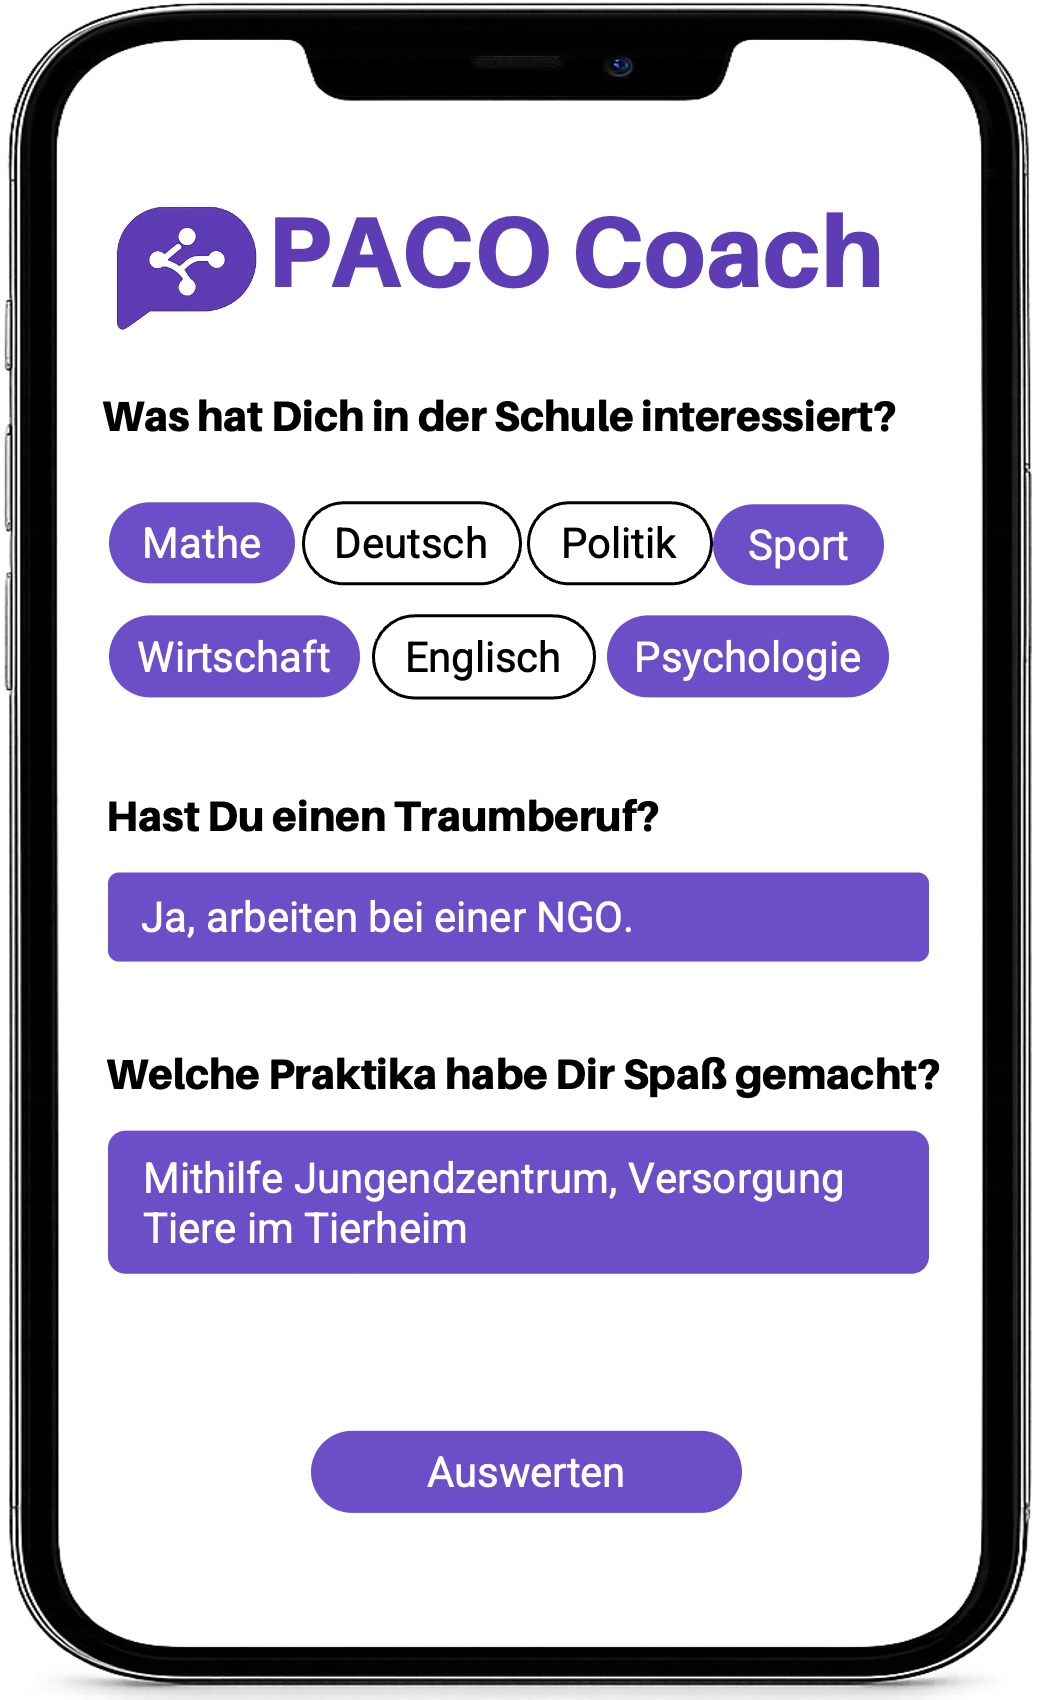
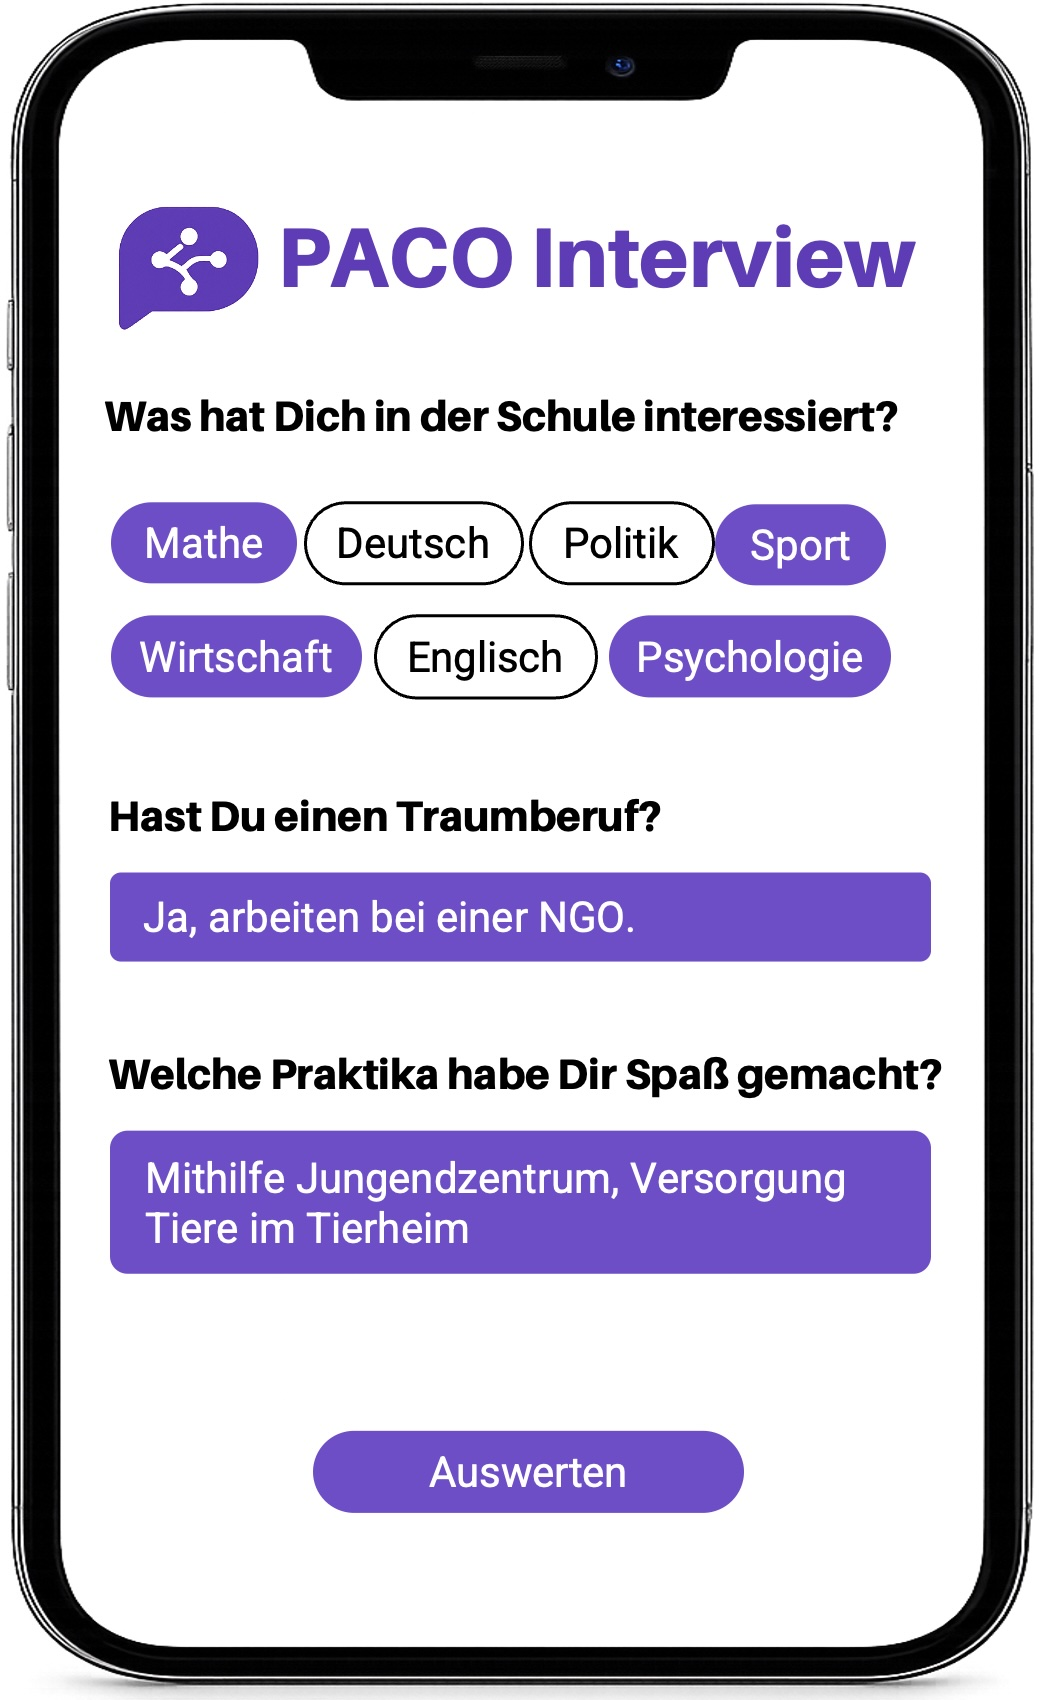
250901 mit PACO Interview

diff --git a/paco-coach.html b/paco-coach.html
@@ -3,8 +3,8 @@
 <head>
   <meta charset="UTF-8" />
   <meta name="viewport" content="width=device-width, initial-scale=1.0" />
-  <title>PACO Coach – Studienwahl mit KI, die zu Ihrer Hochschule passt</title>
-  <meta name="description" content="PACO Coach führt Studieninteressierte durch ein kurzes KI‑Interview, zeigt die Passung zu Studiengängen und ermöglicht Vergleiche – DSGVO‑konform, schnell implementiert."/>
+  <title>PACO Interview – Studienwahl mit KI, die zu Ihrer Hochschule passt</title>
+  <meta name="description" content="PACO Interview führt Studieninteressierte durch ein kurzes KI‑Interview, zeigt die Passung zu Studiengängen und ermöglicht Vergleiche – DSGVO‑konform, schnell implementiert."/>
   <script src="https://cdn.tailwindcss.com"></script>
   
   <!-- NEU HINZUFÜGEN -->
@@ -36,12 +36,12 @@
 
   <!-- HERO -->
   <section id="hero" class="relative w-full h-[50vh] min-h-[500px] max-h-[700px]">
-    <img src="assets/paco-coach-hero.jpg" alt="Studieninteressierte nutzen PACO Coach auf einer Hochschulseite" class="absolute inset-0 w-full h-full object-cover object-top" />
+    <img src="assets/paco-coach-hero.jpg" alt="Studieninteressierte nutzen PACO Interview auf einer Hochschulseite" class="absolute inset-0 w-full h-full object-cover object-top" />
     <div class="absolute inset-0 bg-gradient-to-r from-black/60 to-black/40 flex flex-col justify-center px-6 md:px-20 pt-20 pb-8">
       <div class="max-w-[60%]">
         <!-- Headline gemäß Typo-Guide -->
         <h1 class="text-white text-3xl md:text-5xl font-bold leading-tight">
-          PACO Coach findet passende Studiengänge 
+          PACO Interview findet passende Studiengänge 
         </h1>
         <p class="text-purple-100 text-base md:text-lg mt-4">
           Für Studieninteressierte. Kurzinterview, Matching, Vergleich, perfektes Programm finden. 
@@ -49,7 +49,7 @@
         <div class="mt-6 flex flex-col sm:flex-row gap-3 w-fit">
           <button onclick="go_to_interview('de')" 
                   class="bg-white text-[#7C3AED] hover:bg-[#6A2ECD] hover:text-white font-medium py-3 px-6 rounded-lg shadow text-base cursor-pointer transition-colors duration-200">
-            PACO Coach testen
+             Interview testen
           </button>
           <a href="#contact-form-container"
              class="bg-transparent border-2 border-white text-white hover:bg-[#6A2ECD] hover:border-[#6A2ECD] hover:text-white font-medium py-3 px-6 rounded-lg transition-colors duration-200 text-base inline-block">
@@ -67,7 +67,7 @@
         Bessere Studienorientierung – weniger Anfragen bei Beratungsstellen
       </h2>
       <p class="text-lg text-[#6B7280] text-center mb-12 max-w-3xl mx-auto">
-        PACO Coach stellt gezielte Fragen, bewertet Interessen und Stärken und zeigt die Passung zu Studiengängen Ihrer Hochschule. Ergebnisse sind nachvollziehbar und können direkt verglichen werden.
+        PACO Interview stellt gezielte Fragen, bewertet Interessen und Stärken und zeigt die Passung zu Studiengängen Ihrer Hochschule. Ergebnisse sind nachvollziehbar und können direkt verglichen werden.
       </p>
 
       <ul class="grid grid-cols-1 md:grid-cols-2 lg:grid-cols-4 gap-8">
@@ -107,26 +107,42 @@
   <section id="beispiele" class="bg-[#F9F6FF] py-16 px-6 md:px-20">
     <div class="max-w-6xl mx-auto">
       <h2 class="text-3xl md:text-5xl font-bold text-[#7C3AED] text-center leading-relaxed md:leading-[1.3] mb-6 md:mb-8">
-        So arbeitet PACO Coach 
+        So arbeitet PACO Interview 
       </h2>
       <p class="text-lg text-[#6B7280] text-center mb-12 max-w-2xl mx-auto">Strukturierte Beratung in drei Schritten – mit nachvollziehbaren Ergebnissen.</p>
 
       <div class="grid md:grid-cols-3 gap-8">
         <!-- Schritt 1 -->
         <div class="bg-white border border-[#E9D5FF] rounded-xl p-6">
-         <h3 class="font-semibold text-[#7C3AED] text-xl mb-3">1 · Interview</h3>
-          <img src="assets/paco-coach-screen_1.jpg" alt="Screenshot des Kurzinterviews mit PACO Coach" class="my-4 rounded-lg shadow-md w-full h-auto" loading="lazy" />
+          <div class="flex items-center gap-3 mb-3">
+            <div class="w-8 h-8 bg-[#7C3AED] text-white rounded-full flex items-center justify-center text-sm font-bold">
+              1
+            </div>
+            <h3 class="font-semibold text-[#7C3AED] text-2xl">Analyse</h3>
+          </div>
+          <img src="assets/paco-coach-screen_1.jpg" alt="Screenshot des Kurzinterviews mit PACO Interview" class="my-4 rounded-lg shadow-md w-full h-auto" loading="lazy" />
         </div>
+        
         <!-- Schritt 2 -->
         <div class="bg-white border border-[#E9D5FF] rounded-xl p-6">
-            <h3 class="font-semibold text-[#7C3AED] text-xl mb-3">2 · Empfehlung</h3>
-          <img src="assets/paco-coach-screen_2.jpg" alt="Screenshot des Kurzinterviews mit PACO Coach" class="my-4 rounded-lg shadow-md w-full h-auto" loading="lazy" />
+          <div class="flex items-center gap-3 mb-3">
+            <div class="w-8 h-8 bg-[#7C3AED] text-white rounded-full flex items-center justify-center text-sm font-bold">
+              2
+            </div>
+            <h3 class="font-semibold text-[#7C3AED] text-2xl">Empfehlung</h3>
+          </div>
+          <img src="assets/paco-coach-screen_2.jpg" alt="Screenshot des Kurzinterviews mit PACO Interview" class="my-4 rounded-lg shadow-md w-full h-auto" loading="lazy" />
         </div>
+        
         <!-- Schritt 3 -->
         <div class="bg-white border border-[#E9D5FF] rounded-xl p-6">
-            <h3 class="font-semibold text-[#7C3AED] text-xl mb-3">3 · Vergleich</h3>
-          <img src="assets/paco-coach-screen_3.jpg" alt="Screenshot des Kurzinterviews mit PACO Coach" class="my-4 rounded-lg shadow-md w-full h-auto" loading="lazy" />
-  
+          <div class="flex items-center gap-3 mb-3">
+            <div class="w-8 h-8 bg-[#7C3AED] text-white rounded-full flex items-center justify-center text-sm font-bold">
+              3
+            </div>
+            <h3 class="font-semibold text-[#7C3AED] text-2xl">Vergleich</h3>
+          </div>
+          <img src="assets/paco-coach-screen_3.jpg" alt="Screenshot des Kurzinterviews mit PACO Interview" class="my-4 rounded-lg shadow-md w-full h-auto" loading="lazy" />
         </div>
       </div>
 
@@ -134,7 +150,7 @@
       <div class="mt-12 text-center">
         <a href="javascript:void(0);" onclick="go_to_interview('de')"
                 class="bg-[#7C3AED] hover:bg-[#6A2ECD] text-white font-medium py-3 px-6 rounded-lg transition block text-center">
-          PACO Coach testen
+          PACO Interview testen
         </a>
       </div>
     </div>
@@ -146,7 +162,7 @@
   <section id="analytics" class="bg-[#FFFFFF] py-16 px-6 md:px-20">
     <div class="max-w-6xl mx-auto">
       <h2 class="text-3xl md:text-5xl font-bold text-[#7C3AED] text-center leading-relaxed md:leading-[1.3] mb-6 md:mb-8">
-        PACO Coach Analytics
+        PACO Interview Analytics
       </h2>
       <p class="text-lg text-[#6B7280] text-center mb-12 max-w-2xl mx-auto">
         PACO hilft Ihnen die Interessen, Wünsche und Auswahlkriterien Studieninteressierter zu verstehen.  So können Sie Studienprogramme, Marketing und Studienberatung verbessern.
@@ -198,7 +214,7 @@
          Ihre Studiengänge. Ihr Design
       </h2>
       <p class="text-lg text-[#6B7280] text-center mb-12 max-w-3xl mx-auto">
-        Passen Sie PACO Coach an Ihre Hochschule an, nutzen Sie Informationen von Ihren Studiengängen und Ihre Matching-Kriterien. Gestalten Sie das Design nach Ihren Vorgaben und sorgen Sie für eine sichere und nahtlose Einbindung.
+        Passen Sie PACO Interview an Ihre Hochschule an, nutzen Sie Informationen von Ihren Studiengängen und Ihre Matching-Kriterien. Gestalten Sie das Design nach Ihren Vorgaben und sorgen Sie für eine sichere und nahtlose Einbindung.
       </p>
 
       <div class="grid grid-cols-1 lg:grid-cols-3 gap-8">
@@ -258,7 +274,7 @@
           
           <div class="p-6 faq-item">
             <div class="flex cursor-pointer items-center justify-between text-lg font-medium text-[#1F2937] faq-header">
-              <span>Kann PACO Coach mehrsprachig arbeiten?</span>
+              <span>Kann PACO Interview mehrsprachig arbeiten?</span>
               <svg class="w-5 h-5 text-[#7C3AED] transition-transform duration-200 faq-icon" fill="none" stroke="currentColor" viewBox="0 0 24 24">
                 <path stroke-linecap="round" stroke-linejoin="round" stroke-width="2" d="M19 9l-7 7-7-7"></path>
               </svg>
@@ -276,7 +292,7 @@
               </svg>
             </div>
             <div class="mt-3 text-[#6B7280] faq-content hidden">
-              <p>PACO Coach lässt sich einfach einbinden: als Link, Widget oder iFrame. Hochschulen wählen die passende Variante.</p>
+              <p>PACO Interview lässt sich einfach einbinden: als Link, Widget oder iFrame. Hochschulen wählen die passende Variante.</p>
             </div>
           </div>
           
@@ -308,7 +324,7 @@
       // 1. Formular initialisieren
       initContactForm({
         containerId: 'contact-form-container',
-        title: "PACO Coach Demo buchen oder Kontakt aufnehmen"
+        title: "PACO Interview Demo buchen oder Kontakt aufnehmen"
       });
       
       // 2. FAIL-SAFE Lösung: Manuelle Scroll-Handler für alle "Demo buchen"-Links

diff --git a/studienberatung.html b/studienberatung.html
@@ -3,7 +3,7 @@
 <head>
   <meta charset="utf-8" />
   <meta name="viewport" content="width=device-width, initial-scale=1" />
-  <title>PACO Coach – Finde deinen Studiengang in 3 Minuten</title>
+  <title>PACO Interview – Finde deinen Studiengang in 3 Minuten</title>
   <meta name="description" content="KI-Studienberatung für 20.000 deutsche Studiengänge. Kostenlos, anonym, in 3 Minuten zum passenden Studiengang. Jetzt starten!" />
   <link rel="preconnect" href="https://fonts.googleapis.com">
   <link rel="preconnect" href="https://fonts.gstatic.com" crossorigin>
@@ -80,14 +80,14 @@
   <!-- HEADER - KI-Studienberatung Schriftgrößen angepasst -->
 <header class="sticky top-0 z-40 bg-[#F9FAFB]">
   <nav class="mx-auto max-w-6xl px-4 py-4 flex items-center justify-between">
-    <a href="#" class="flex items-center gap-3" aria-label="PACO Coach">
+    <a href="#" class="flex items-center gap-3" aria-label="PACO Interview">
       <img 
         src="assets/logo-pur-lila.png" 
         alt="PACO Logo" 
         class="h-12 sm:h-14 md:h-16 w-auto"
       />
       <div class="text-[#7C3AED] leading-tight">
-        <div class="text-xl sm:text-2xl md:text-3xl font-bold">PACO Coach</div>
+        <div class="text-xl sm:text-2xl md:text-3xl font-bold">PACO Interview</div>
         <div class="text-[13px] sm:text-[16px] md:text-[21px] -mt-1 opacity-75">KI-Studienberatung</div>
       </div>
     </a>
@@ -95,7 +95,7 @@
     <!-- NEUER DESKTOP CTA BUTTON -->
     <div class="hidden md:block">
       <a href="/coach" class="bg-[#7C3AED] hover:bg-[#6A2ECD] text-white font-semibold px-6 py-3 rounded-lg">
-      Direkt zu PACO Coach
+      Direkt zu PACO Interview
       </a>
     </div>
   </nav>
@@ -127,7 +127,7 @@
                   <span class="text-sm font-bold">P</span>
                 </div>
                 <div>
-                  <div class="font-medium">PACO Coach</div>
+                  <div class="font-medium">PACO Interview</div>
                   <div class="text-xs opacity-75">KI-Studienberatung</div>
                 </div>
               </div>
@@ -175,7 +175,7 @@
                 <span class="text-sm font-bold">P</span>
               </div>
               <div>
-                <div class="font-medium">PACO Coach</div>
+                <div class="font-medium">PACO Interview</div>
                 <div class="text-xs opacity-75">KI-Studienberatung</div>
               </div>
             </div>
@@ -205,7 +205,7 @@
   <section class="bg-white py-16">
     <div class="mx-auto max-w-6xl px-6 md:px-20">
       <div class="text-center mb-12">
-        <h2 class="font-bold text-3xl md:text-5xl text-[#1F2937] mb-4">Warum PACO Coach?</h2>
+        <h2 class="font-bold text-3xl md:text-5xl text-[#1F2937] mb-4">Warum PACO Interview?</h2>
       </div>
       
       <div class="grid grid-cols-1 md:grid-cols-3 gap-8">
@@ -236,7 +236,7 @@
             </svg>
           </div>
           <h3 class="font-semibold text-xl md:text-2xl mb-3 text-[#1F2937]">Kostenlos & unverbindlich</h3>
-          <p class="text-[#6B7280] text-base md:text-lg">Die Nutzung von PACO Coach ist komplett kostenlos und anonym.</p>
+          <p class="text-[#6B7280] text-base md:text-lg">Die Nutzung von PACO Interview ist komplett kostenlos und anonym.</p>
         </div>
       </div>
     </div>
@@ -288,7 +288,7 @@
     <div class="mx-auto max-w-6xl px-6 md:px-20">
       <div class="text-center mb-12">
         <h2 class="font-bold text-3xl md:text-5xl text-[#1F2937] mb-4">Was Studierende sagen</h2>
-        <p class="text-base md:text-lg text-[#6B7280]">Echte Erfahrungen mit PACO Coach</p>
+        <p class="text-base md:text-lg text-[#6B7280]">Echte Erfahrungen mit PACO Interview</p>
       </div>
       
       <div class="grid grid-cols-1 md:grid-cols-3 gap-8">
@@ -337,8 +337,8 @@
     
     <div class="space-y-4">
       <details class="bg-white rounded-xl p-6 shadow-sm">
-        <summary class="cursor-pointer font-semibold text-lg text-[#1F2937]">Ist PACO Coach wirklich kostenlos?</summary>
-        <p class="mt-3 text-[#6B7280] text-base md:text-lg">Ja, PACO Coach ist komplett kostenlos nutzbar. Keine versteckten Kosten, keine Abos.</p>
+        <summary class="cursor-pointer font-semibold text-lg text-[#1F2937]">Ist PACO Interview wirklich kostenlos?</summary>
+        <p class="mt-3 text-[#6B7280] text-base md:text-lg">Ja, PACO Interview ist komplett kostenlos nutzbar. Keine versteckten Kosten, keine Abos.</p>
       </details>
       
       <details class="bg-white rounded-xl p-6 shadow-sm">
@@ -372,7 +372,7 @@
   </div>
 </section>
 
-  <!-- FOOTER - "PACO Coach" entfernt -->
+  <!-- FOOTER - "PACO Interview" entfernt -->
   <footer class="bg-gray-900 text-white py-10">
     <div class="mx-auto max-w-6xl px-4">
       <div class="flex flex-wrap items-center justify-between gap-6">

diff --git a/tmp.html b/tmp.html
@@ -3,8 +3,8 @@
 <head>
   <meta charset="utf-8" />
   <meta name="viewport" content="width=device-width, initial-scale=1" />
-  <title>PACO Coach – Chat-Demo</title>
-  <meta name="description" content="Minimaler PACO Coach Chat-Demo-Screen mit animierten Nachrichten." />
+  <title>PACO Interview – Chat-Demo</title>
+  <meta name="description" content="Minimaler PACO Interview Chat-Demo-Screen mit animierten Nachrichten." />
   <link href="https://fonts.googleapis.com/css2?family=Inter:wght@400;500;600;700;800&display=swap" rel="stylesheet">
   <style>
     :root{
@@ -797,13 +797,13 @@
 </head>
 <body>
 
-  <div class="frame" role="application" aria-label="PACO Coach Chat-Demo">
+  <div class="frame" role="application" aria-label="PACO Interview Chat-Demo">
     <div class="screen">
       <!-- Chat Header -->
       <div class="header">
         <img src="assets/logo-pur-lila.png" alt="PACO Logo" class="logo" />
         <div>
-          <div class="title">PACO Coach</div>
+          <div class="title">PACO Interview</div>
           <div class="badge">KI-Studienberatung</div>
         </div>
       </div>

diff --git a/header.html b/header.html
@@ -8,7 +8,7 @@
     <nav class="hidden sm:flex items-center space-x-6 text-sm sm:text-base lg:text-lg h-full">
       <a href="index.html#start"   class="hover:underline">Start</a>
       <a href="paco-chat.html"     class="hover:underline">PACO Chat</a>
-      <a href="paco-coach.html"    class="hover:underline">PACO Coach</a>
+      <a href="paco-coach.html"    class="hover:underline">PACO Interview</a>
       <a href="paco-einfuehrung.html"         class="hover:underline">PACO Einführung</a>
       <a href="kontakt.html"       class="hover:underline">Kontakt</a>
     </nav>
@@ -36,7 +36,7 @@
   <div id="mobile-menu" class="hidden sm:hidden px-6 pb-4 bg-black bg-opacity-80">
     <a href="index.html#start"   class="block py-1">Start</a>
     <a href="paco-chat.html"     class="block py-1">PACO Chat</a>
-    <a href="paco-coach.html"    class="block py-1">PACO Coach</a>
+    <a href="paco-coach.html"    class="block py-1">PACO Interview</a>
     <a href="paco-einfuehrung.html"         class="block py-1">PACO Einführung</a>
     <a href="kontakt.html"       class="block py-1">Kontakt</a>
   </div>

diff --git a/paco-chat.html b/paco-chat.html
@@ -33,7 +33,7 @@
         <div class="mt-6 flex flex-col sm:flex-row gap-3 w-fit">
           <button onclick="go_to_chat('de')" 
                   class="bg-white text-[#7C3AED] hover:bg-[#6A2ECD] hover:text-white font-medium py-3 px-6 rounded-lg shadow text-base cursor-pointer transition-colors duration-200">
-            PACO Chat testen
+             Chat testen
           </button>
           <a href="#contact-form-container"
              class="bg-transparent border-2 border-white text-white hover:bg-[#6A2ECD] hover:border-[#6A2ECD] hover:text-white font-medium py-3 px-6 rounded-lg transition-colors duration-200 text-base inline-block">

diff --git a/kontakt.html b/kontakt.html
@@ -130,7 +130,7 @@
             </svg>
           </div>
           <div class="mt-3 text-[#6B7280] faq-content hidden">
-            <p>PACO Chat (Fragen beantworten), PACO Coach (Studienwahl), PACO Dashboard (Analytics). Details auf den jeweiligen Unterseiten.</p>
+            <p>PACO Chat (Fragen beantworten), PACO Interview (Studienwahl), PACO Dashboard (Analytics). Details auf den jeweiligen Unterseiten.</p>
           </div>
         </div>
 
